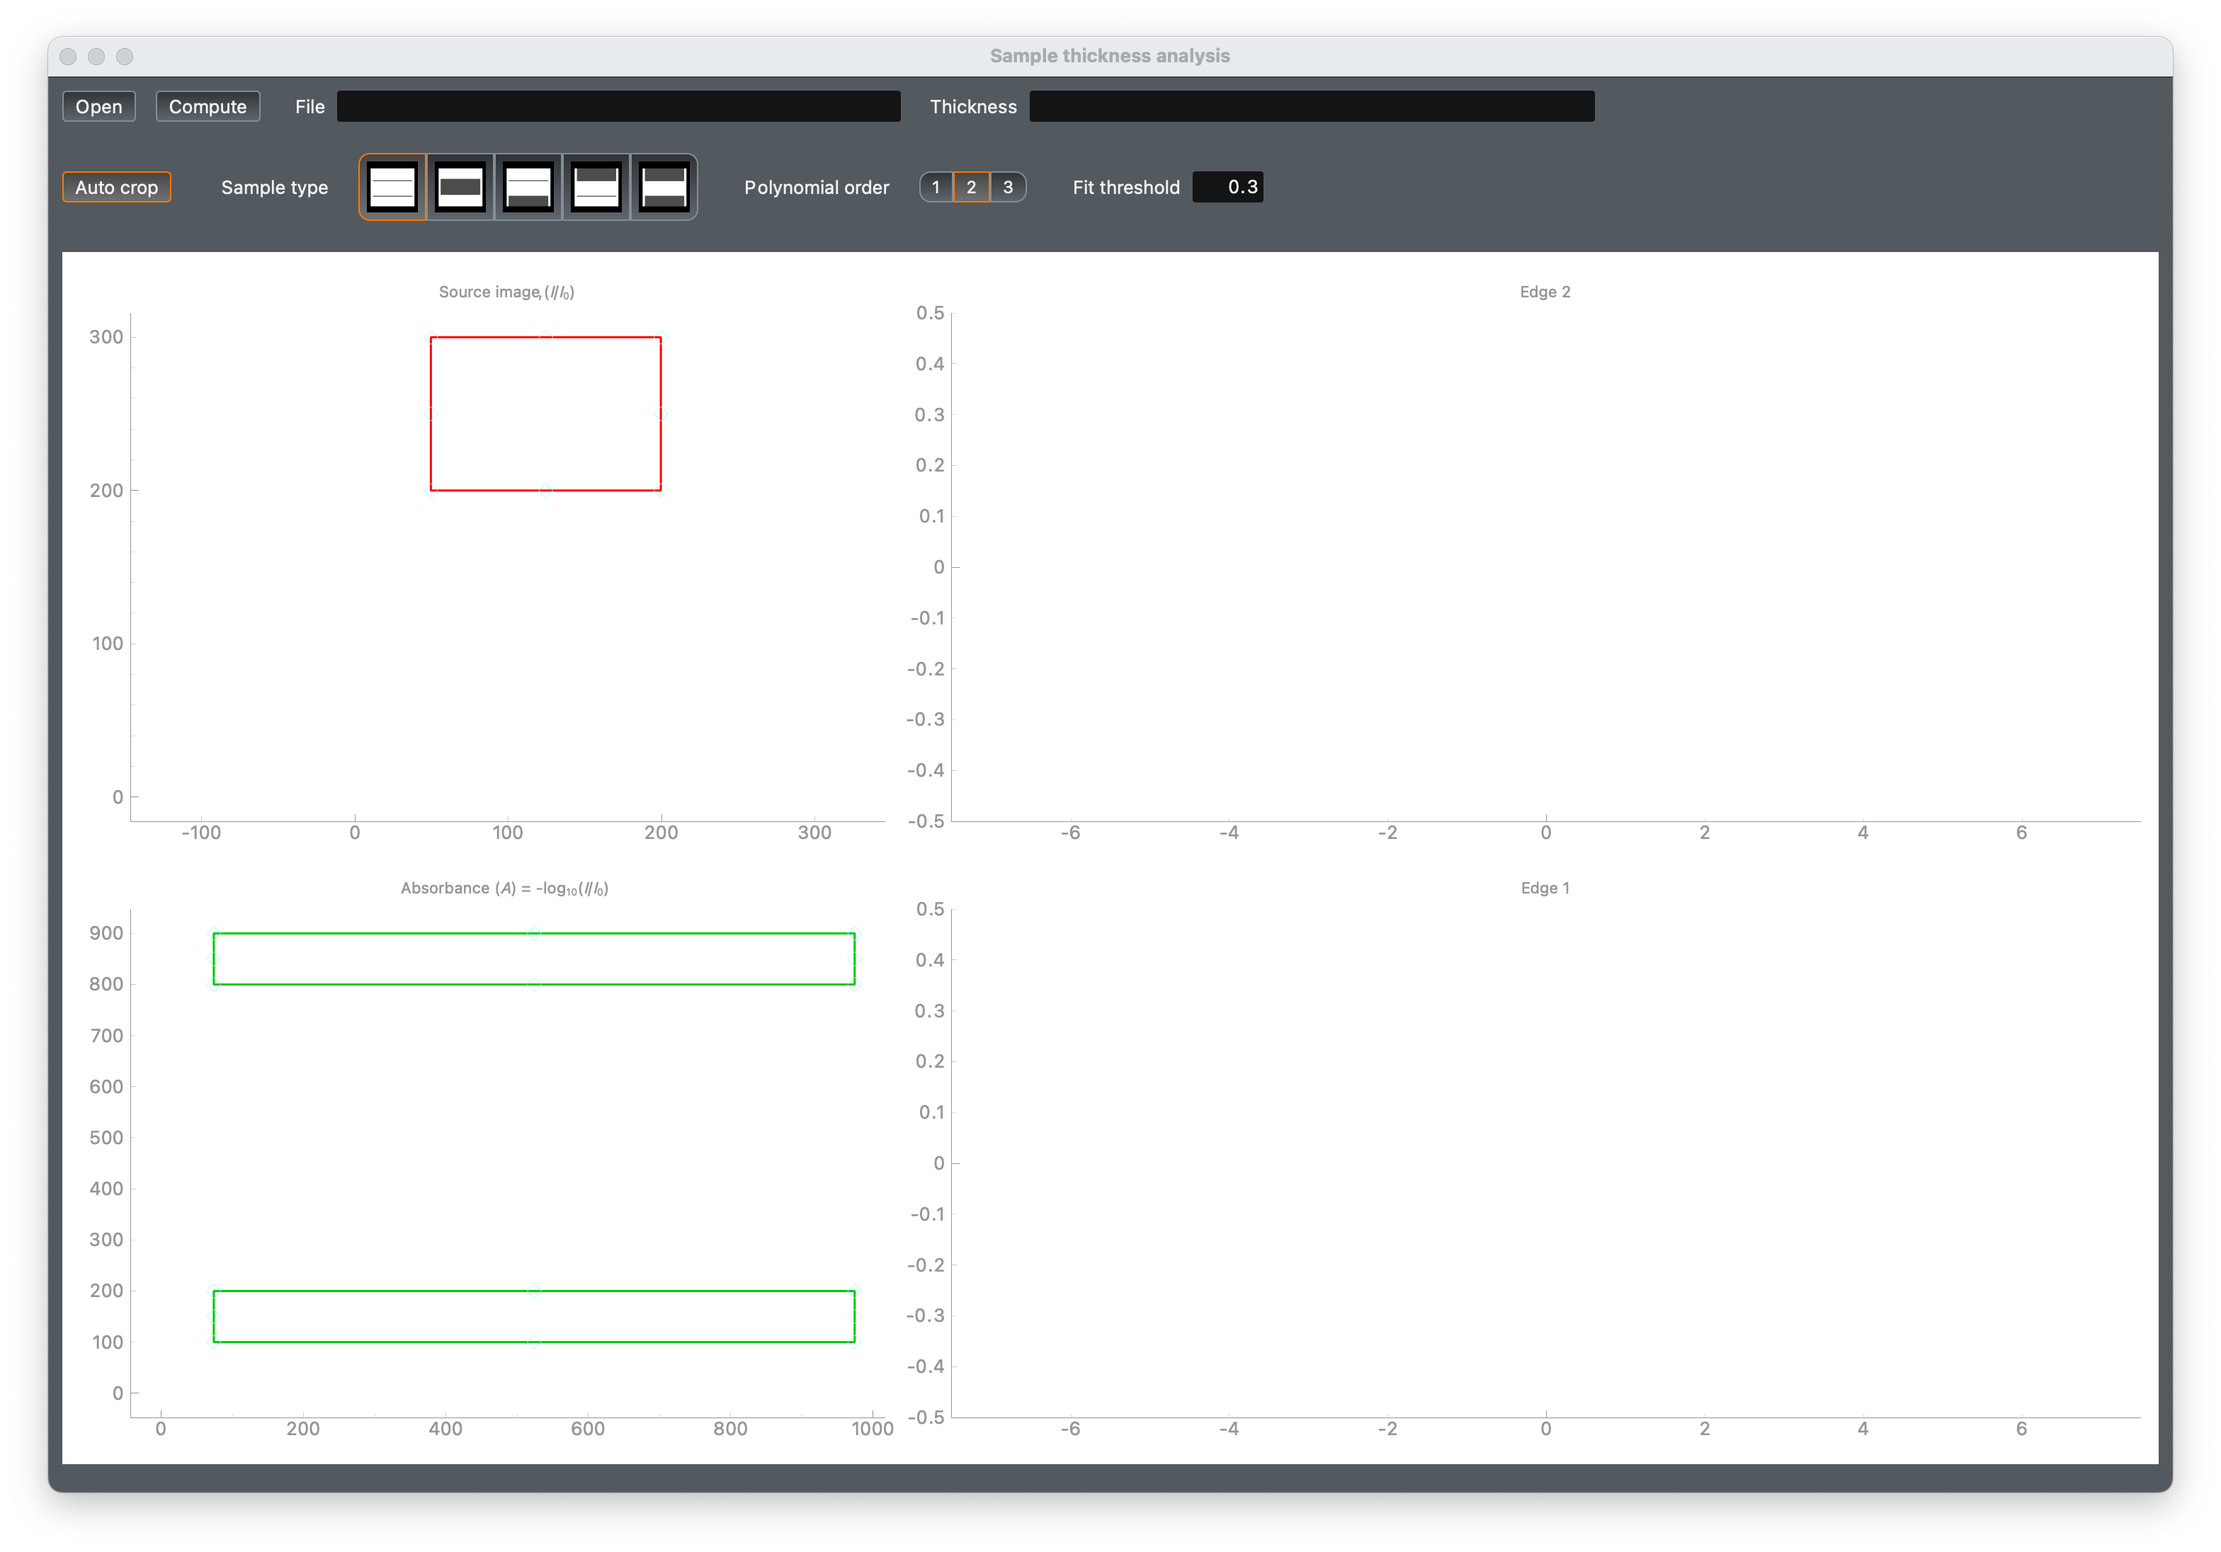
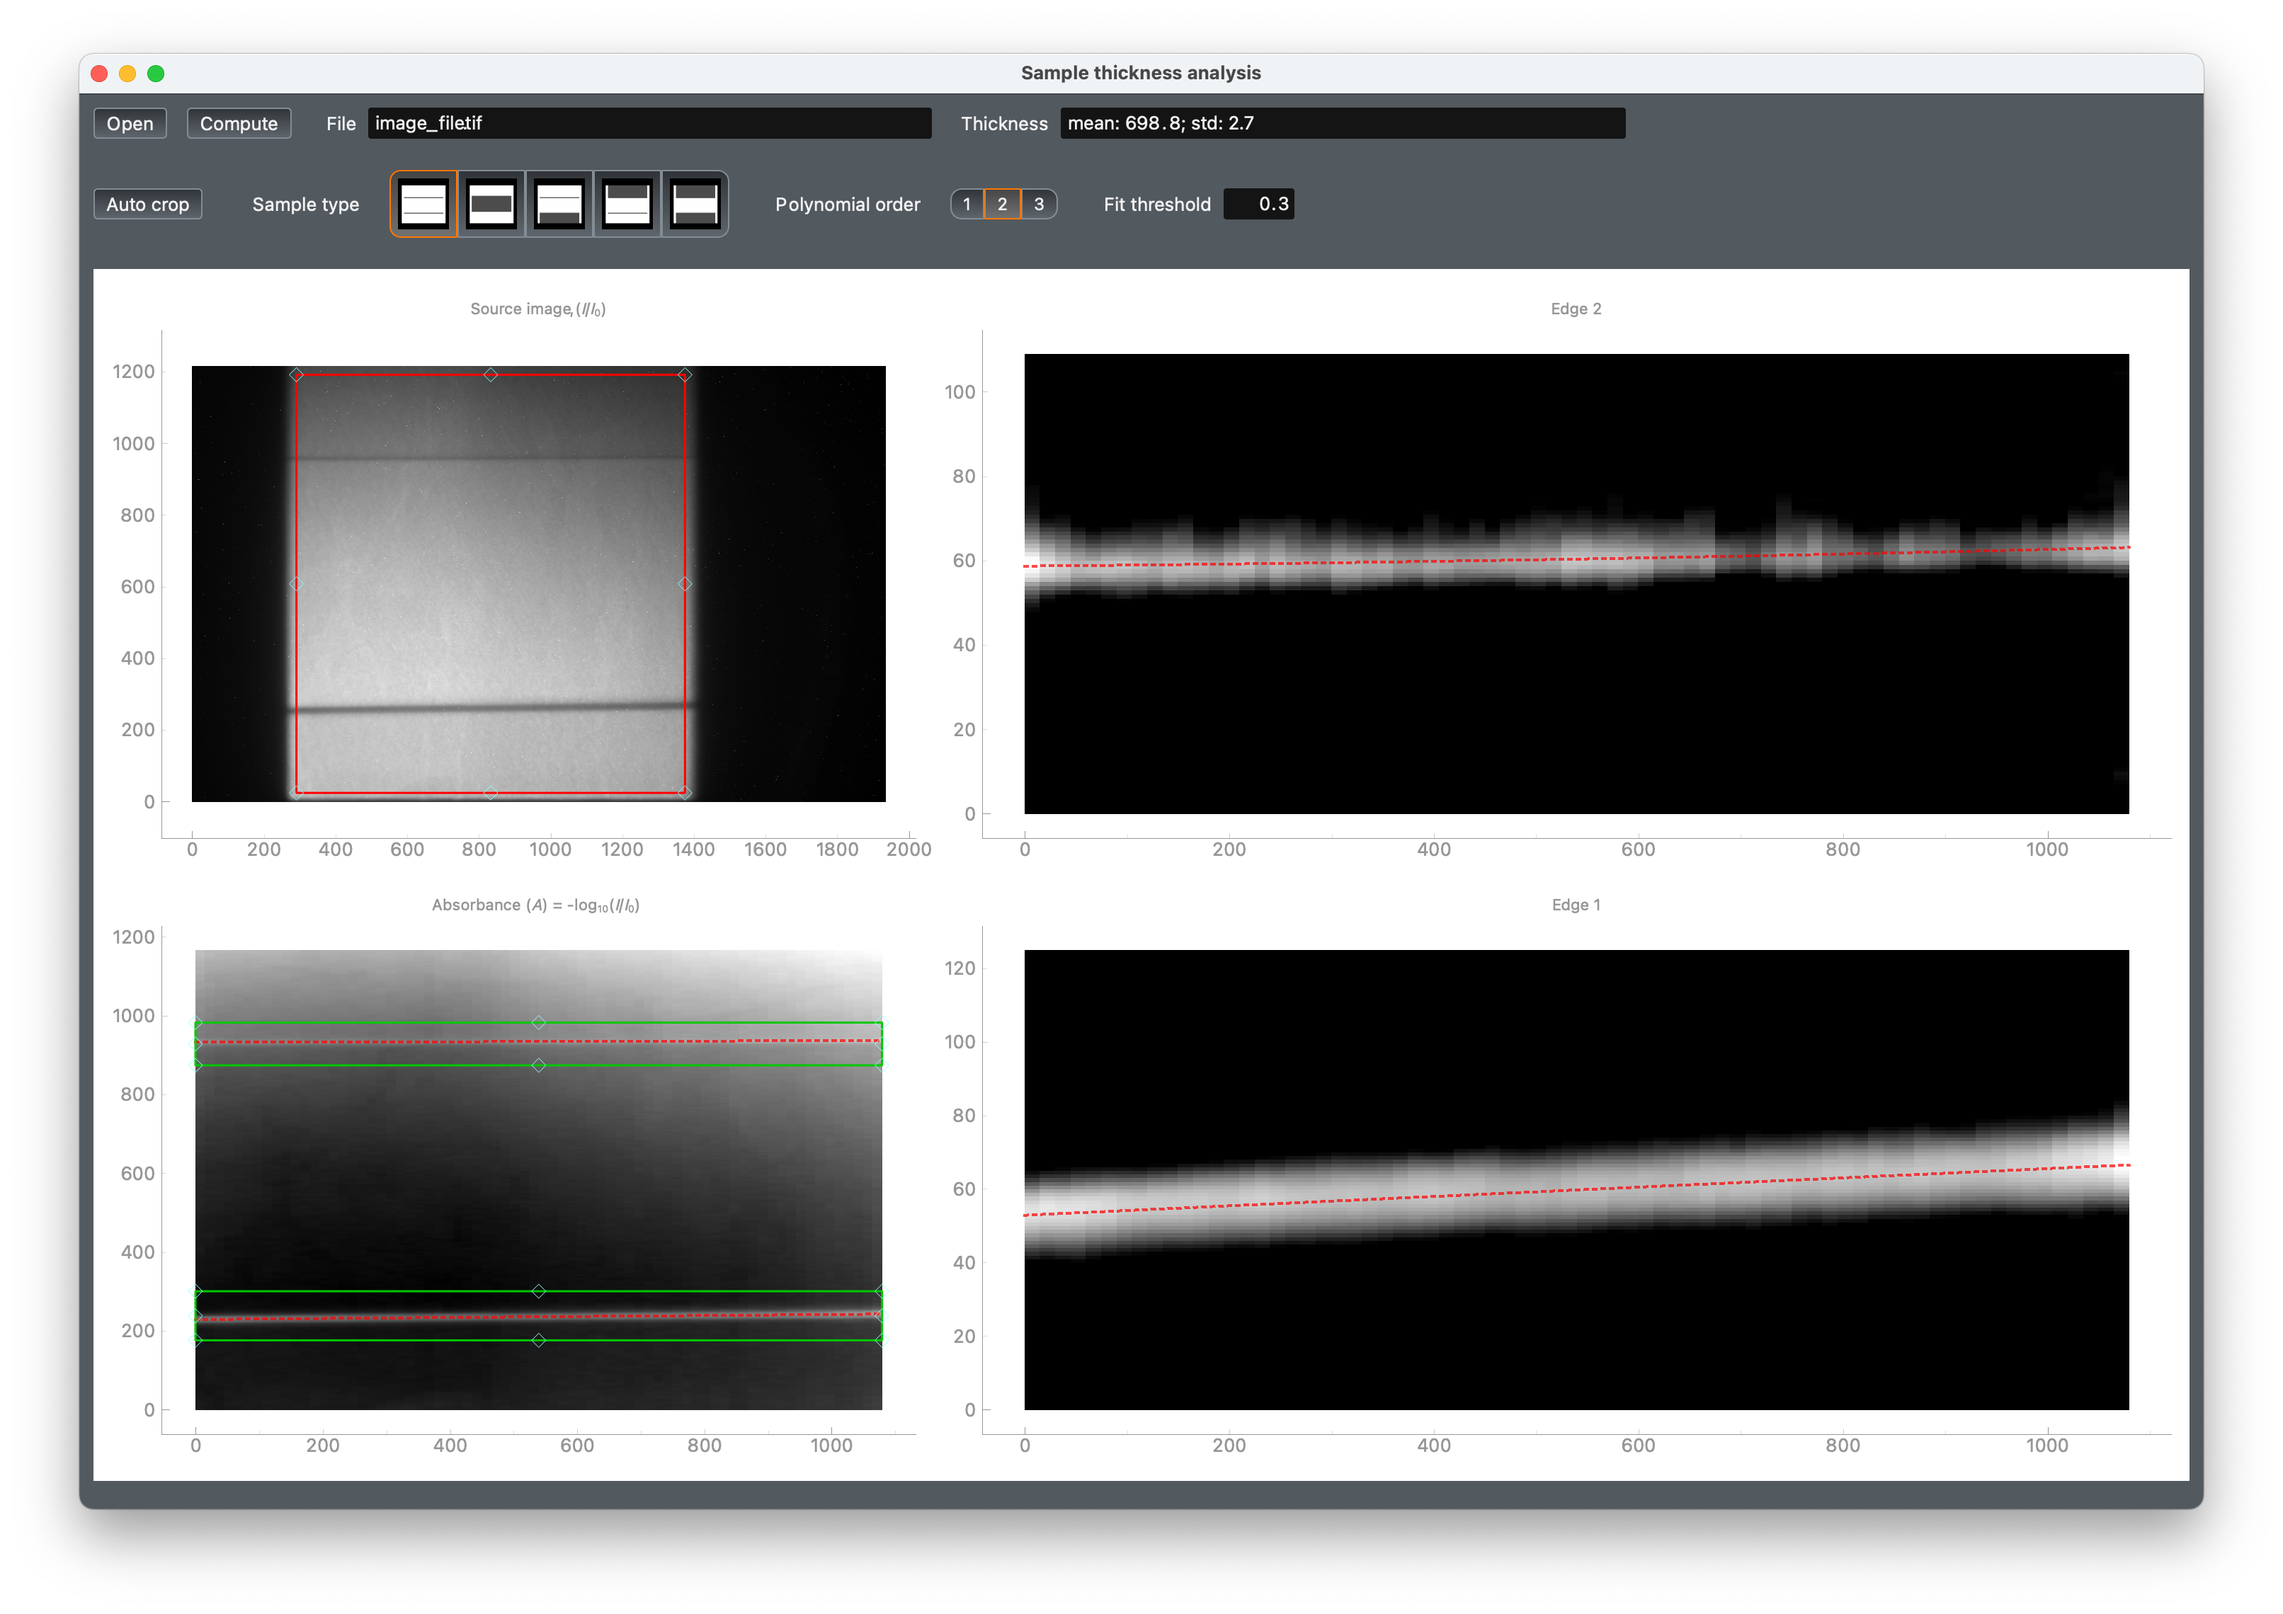
docs

diff --git a/docs/source/beforeyoubegin.rst b/docs/source/beforeyoubegin.rst
@@ -11,19 +11,39 @@ wave travel distance (\ :math:`d`) and the wave travel time (\ :math:`{\tau}`)
 
 \ :math:`v = d/{\tau}`	 
 
+.. figure:: /images/cell_schematic.png
+   :alt: cell_schematic 
+   :width: 450px
+   :align: center
+
 The data analysis package sonicPy consists of two GUI programs, :ref:`Image-Analysis <imageanalysis>` 
 and :ref:`Time-of-Flight <tof_analysis>` that allow to estimate the values of (\ :math:`d`) 
 and (\ :math:`{\tau}`), respectively.  
 
-The goal of the Image-Analysis program is to perform measurements of the sample-thickness 
+The goal of the :ref:`Image-Analysis <imageanalysis>` program is to perform measurements of the sample-thickness 
 in the experimentally recorded radiography images. The sample-thickness corresponds to 
 the travel distance (\ :math:`d`) of the ultrasound wave. 
 
-The Time-of-Flight program is used to determine the time shift (\ :math:`{\tau}`) between a 
+.. figure:: /images/radiography_schematic.png
+   :alt: radiography_schematic 
+   :width: 500px
+   :align: center
+
+The :ref:`Time-of-Flight <tof_analysis>` program is used to determine the time shift (\ :math:`{\tau}`) between a 
 series of experimentally recorded ultrasound echoes by performing cross-correlation. 
+
+.. figure:: /images/echoes_schematic.png
+   :alt: echoes_schematic 
+   :width: 500px
+   :align: center
+
 The inverse frequency (\ :math:`f`\ :sup:`-1`) module of the Time-of-Flight program 
 can improve the travel time estimation by performing the multiple-frequency analysis. 
 
+.. figure:: /images/f_schematic.png
+   :alt: inverse_f_schematic 
+   :width: 400px
+   :align: center
 
 Installation
 ------------

diff --git a/docs/source/imageanalysis.rst b/docs/source/imageanalysis.rst
@@ -10,11 +10,11 @@ GUI basics
 ----------
 
 .. figure:: /images/ia_start.png
-   :alt: image_analysis_start_screen
+   :alt: image_analysis_start_screen 
    :width: 720px
    :align: center
    
-   Image analysis window after start-up.
+   Image analysis window
 
 Control panel
 ^^^^^^^^^^^^^
